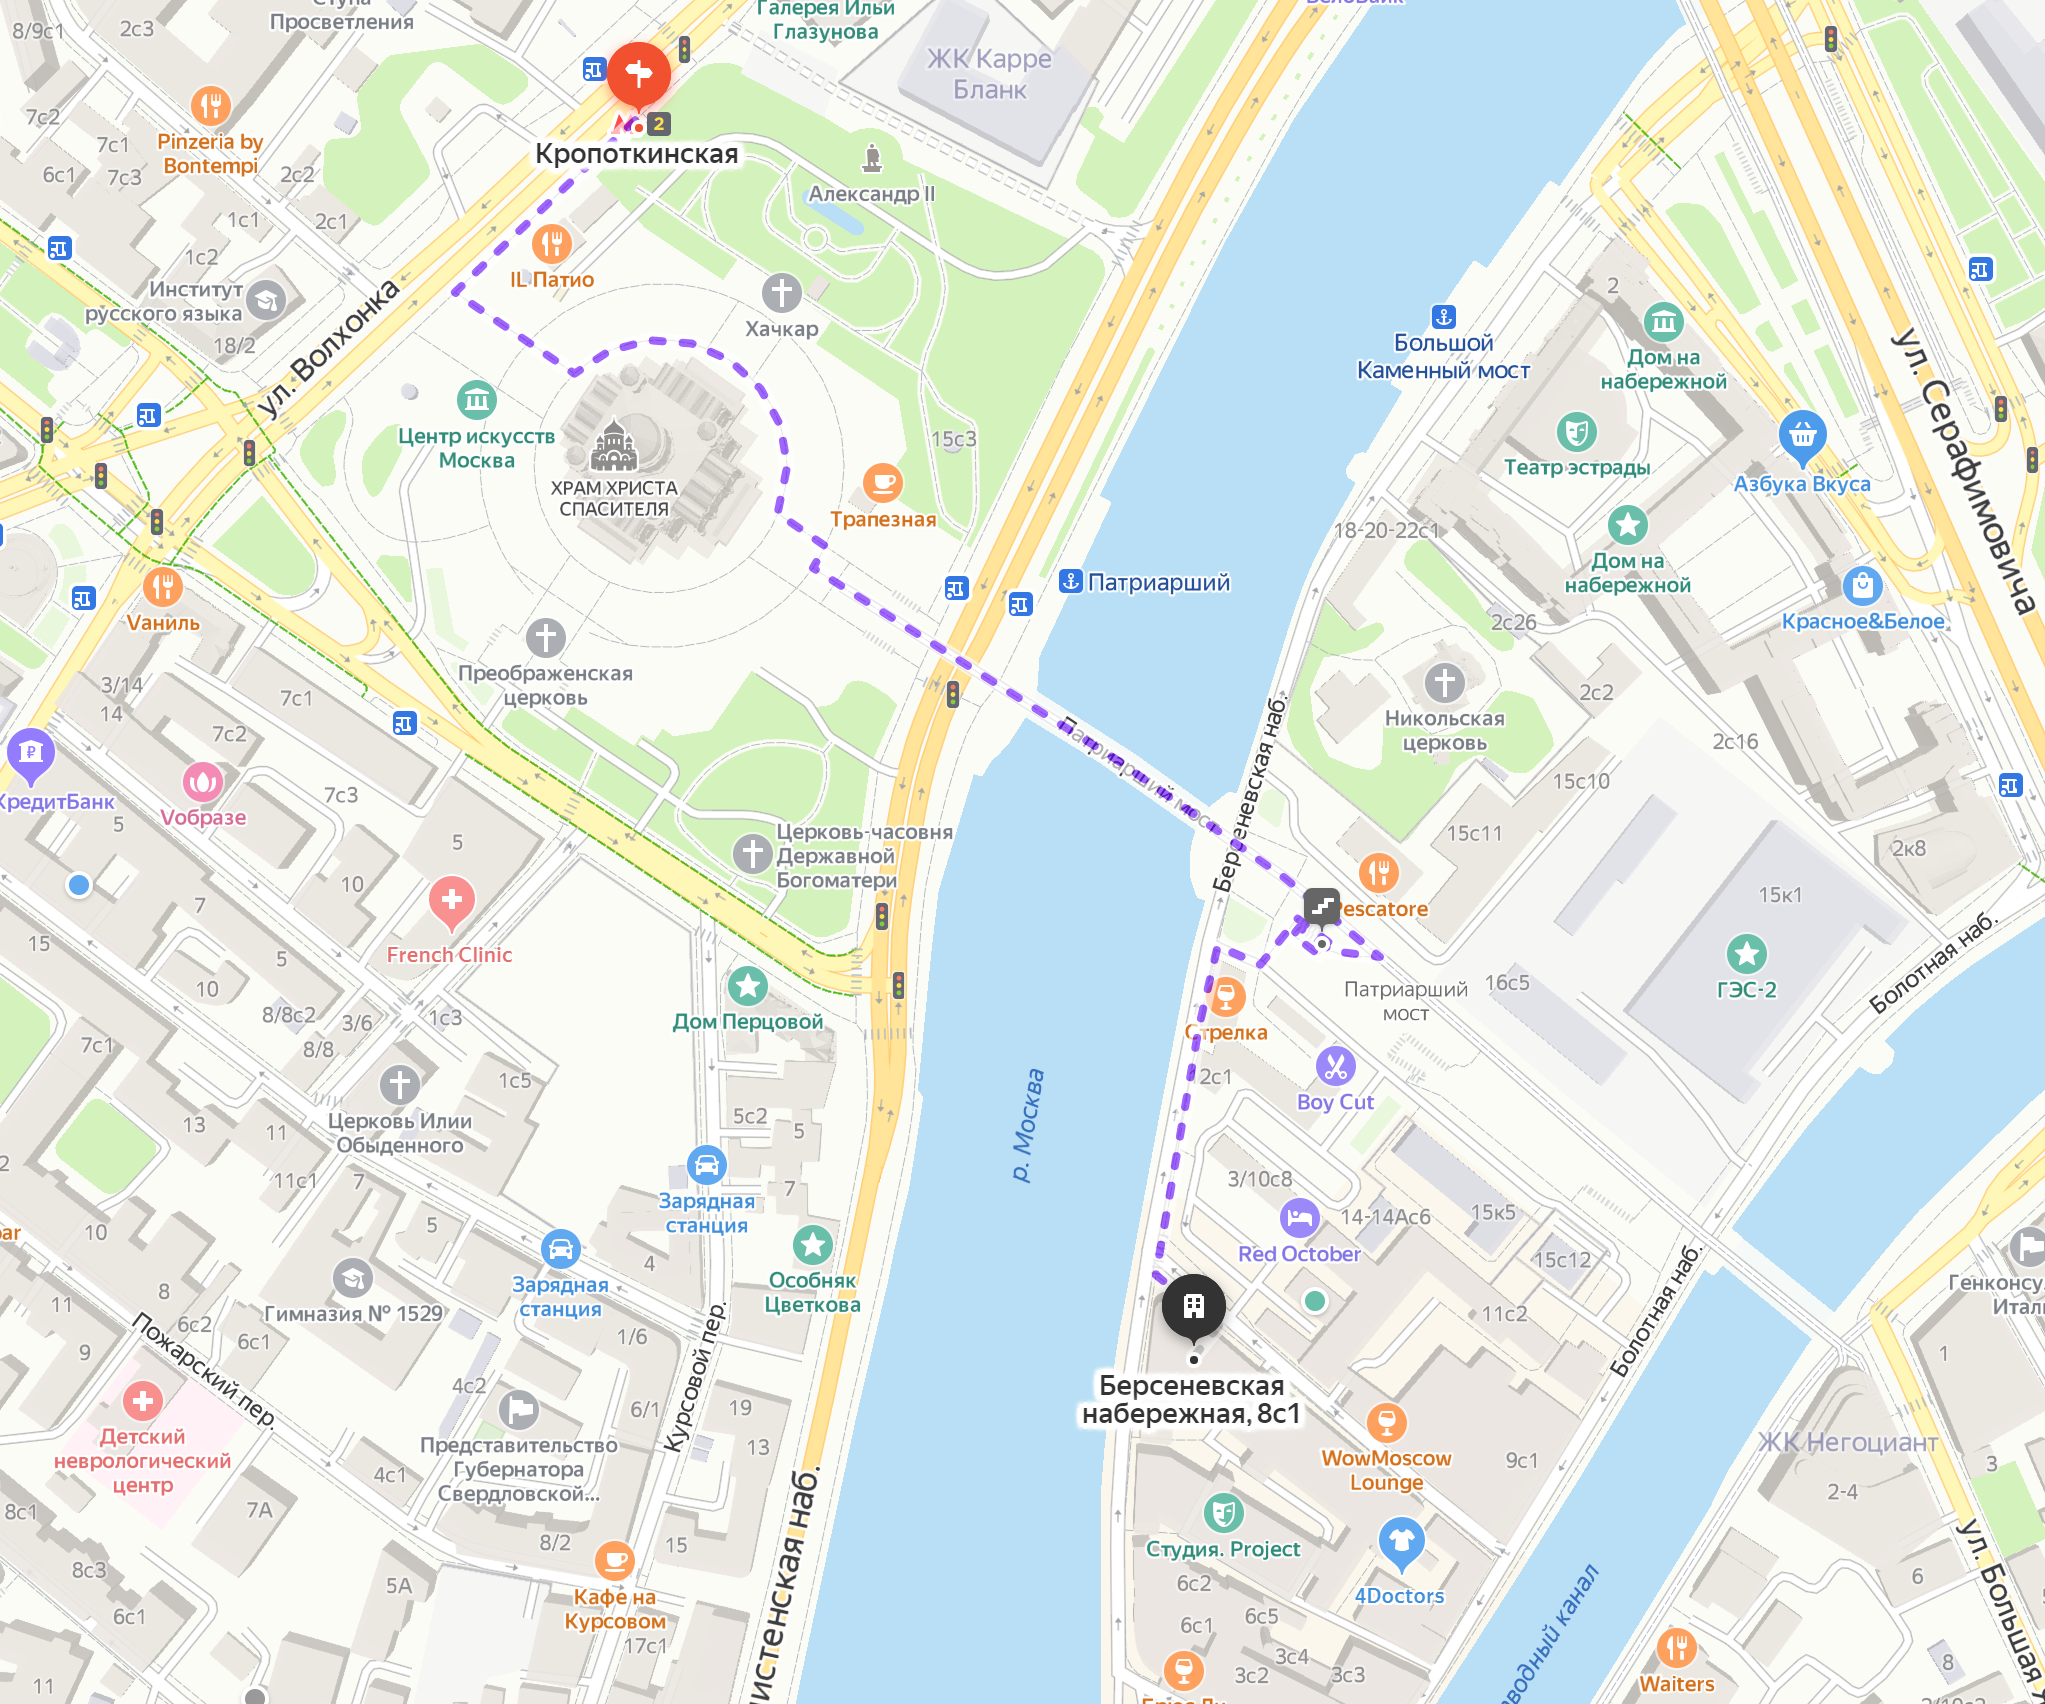
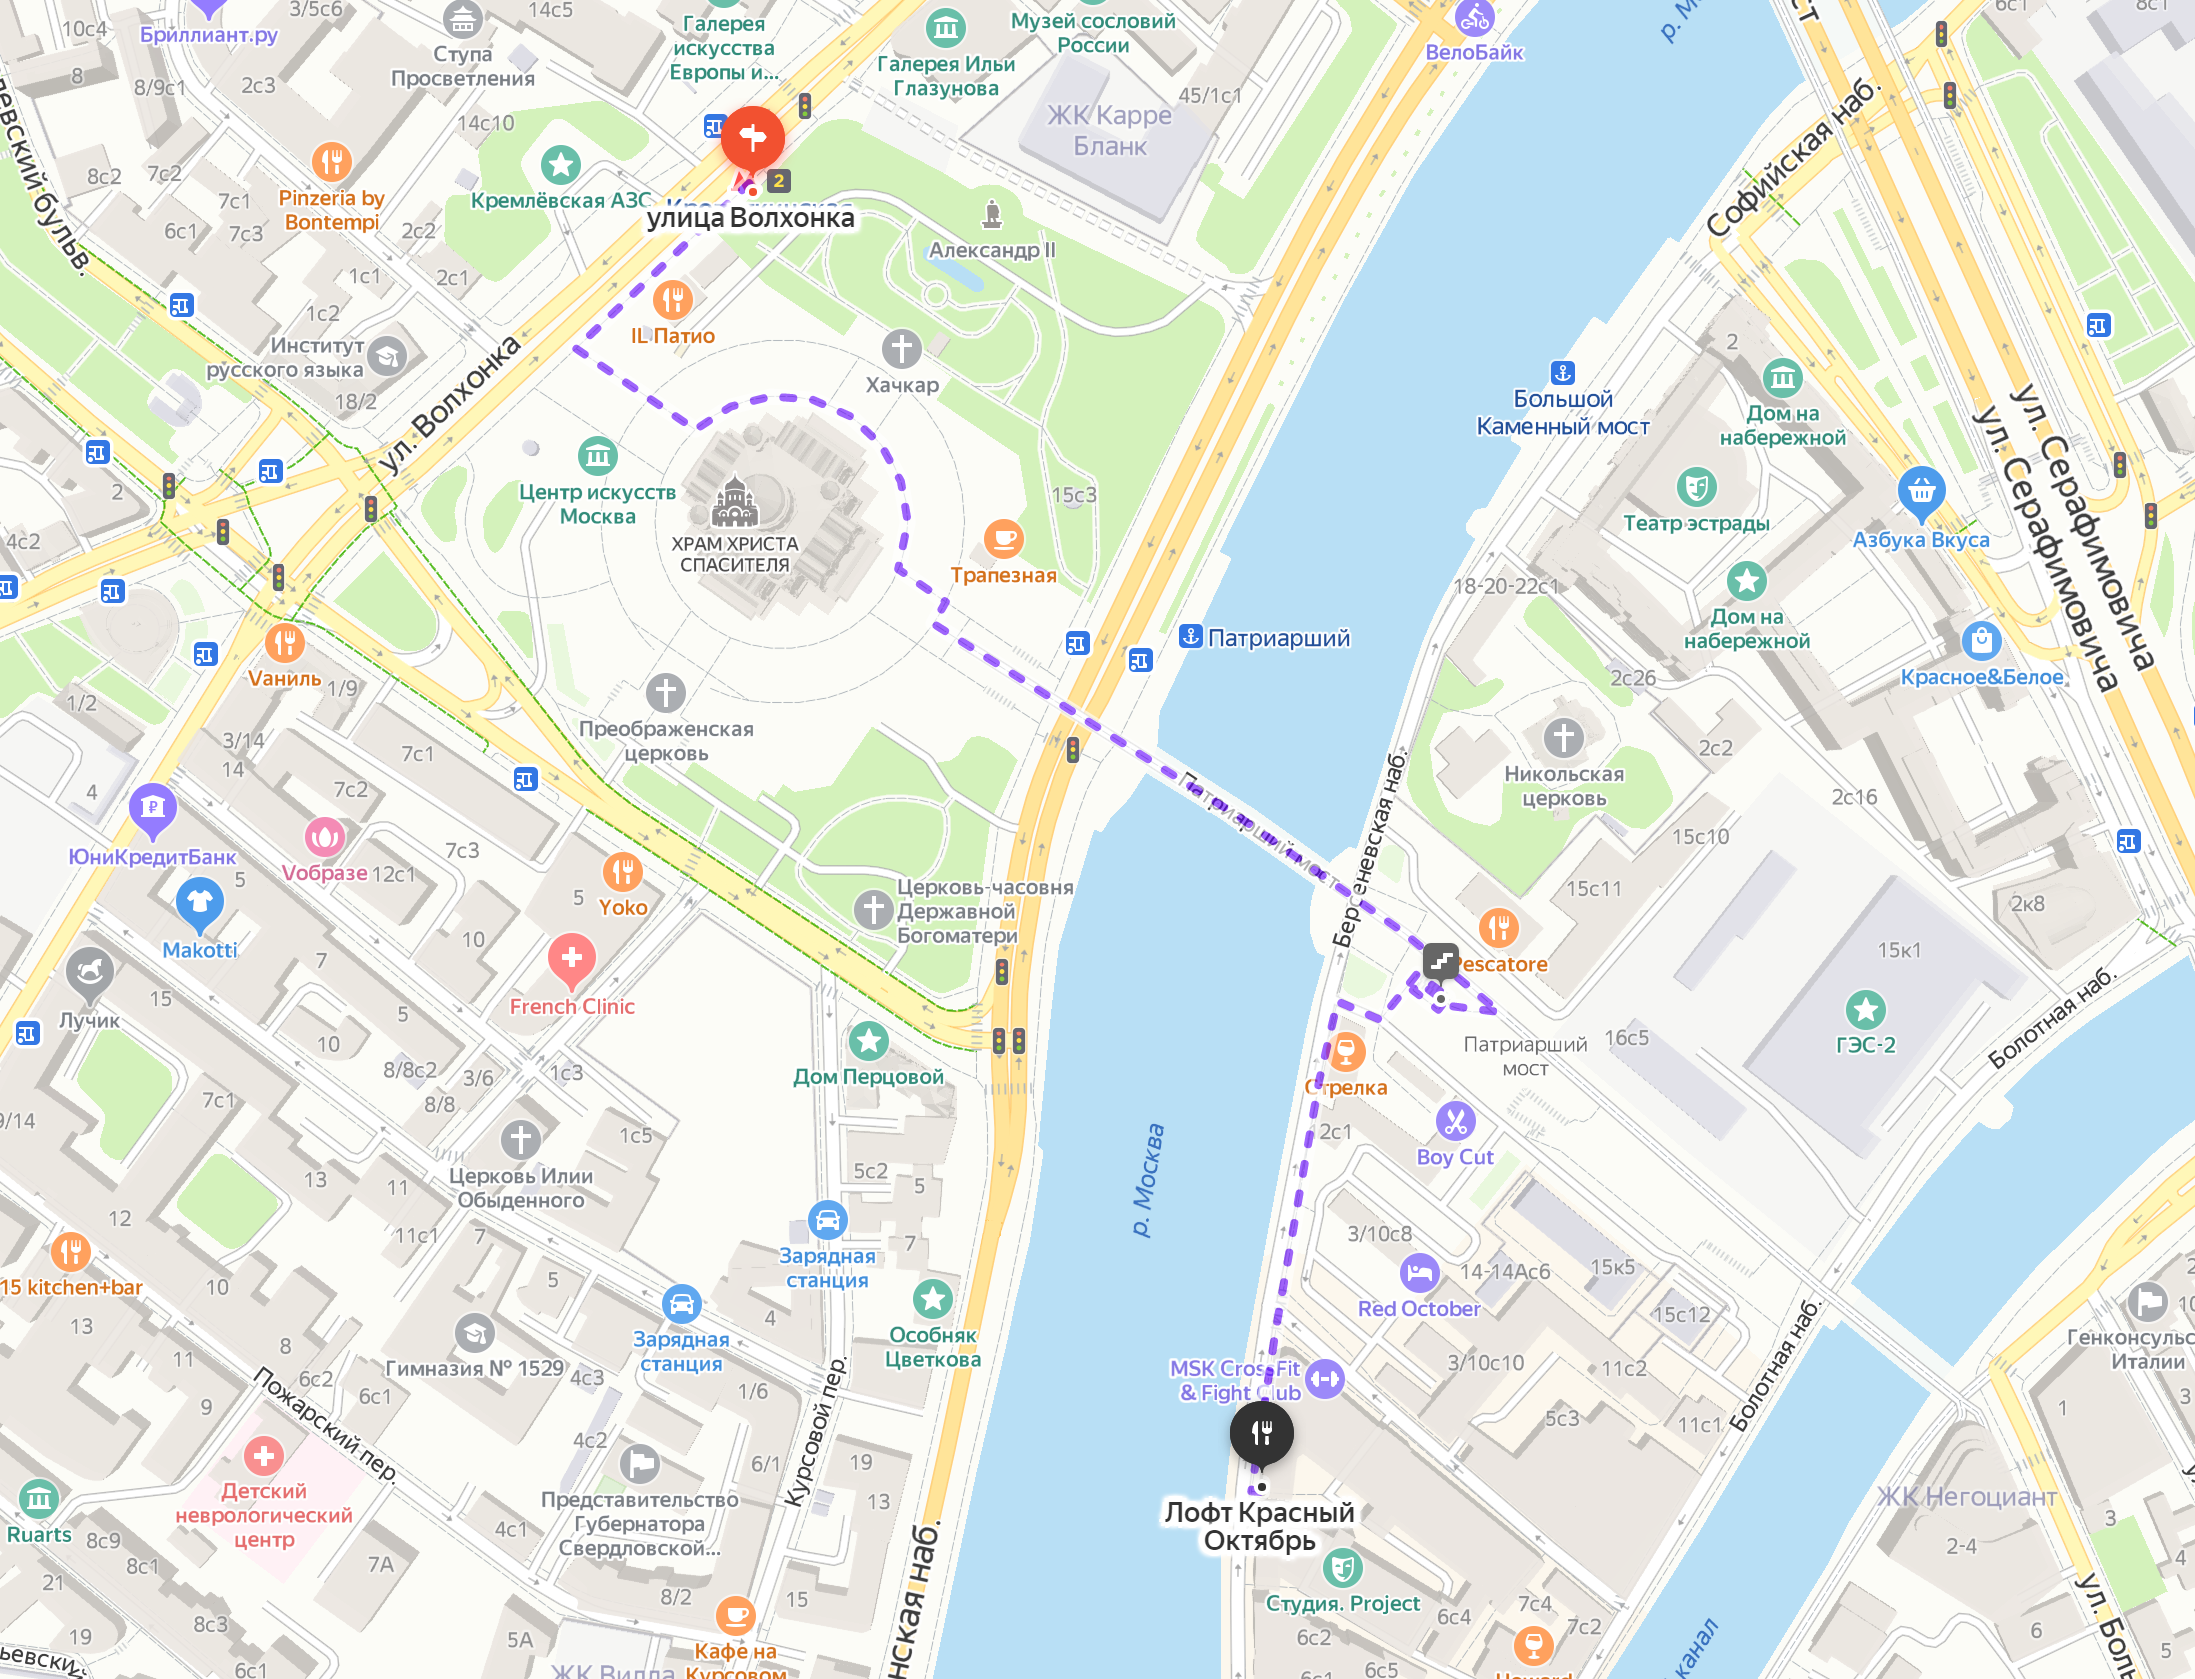
Fix route

diff --git a/src/Party/index.tsx b/src/Party/index.tsx
@@ -40,7 +40,7 @@ export const Party = memo(function Party() {
           <div className="mb-6 text-xl font-semibold">Схема прохода</div>
           <img className="mb-6 w-full rounded-lg" src={require('./assets/loft-route.png')} />
 
-          <a className="inline-flex items-center hover:text-red-500" href="https://yandex.ru/maps/-/CCQ3Q8WckB" target="_blank">
+          <a className="inline-flex items-center hover:text-red-500" href="https://yandex.ru/maps/-/CCQ3UCA5DA" target="_blank">
             <span className="mr-3 font-semibold uppercase">Посмотреть на Яндекс.Картах</span>
 
             <div className="flex-shrink-0 flex justify-center items-center bg-gray-200 rounded">
